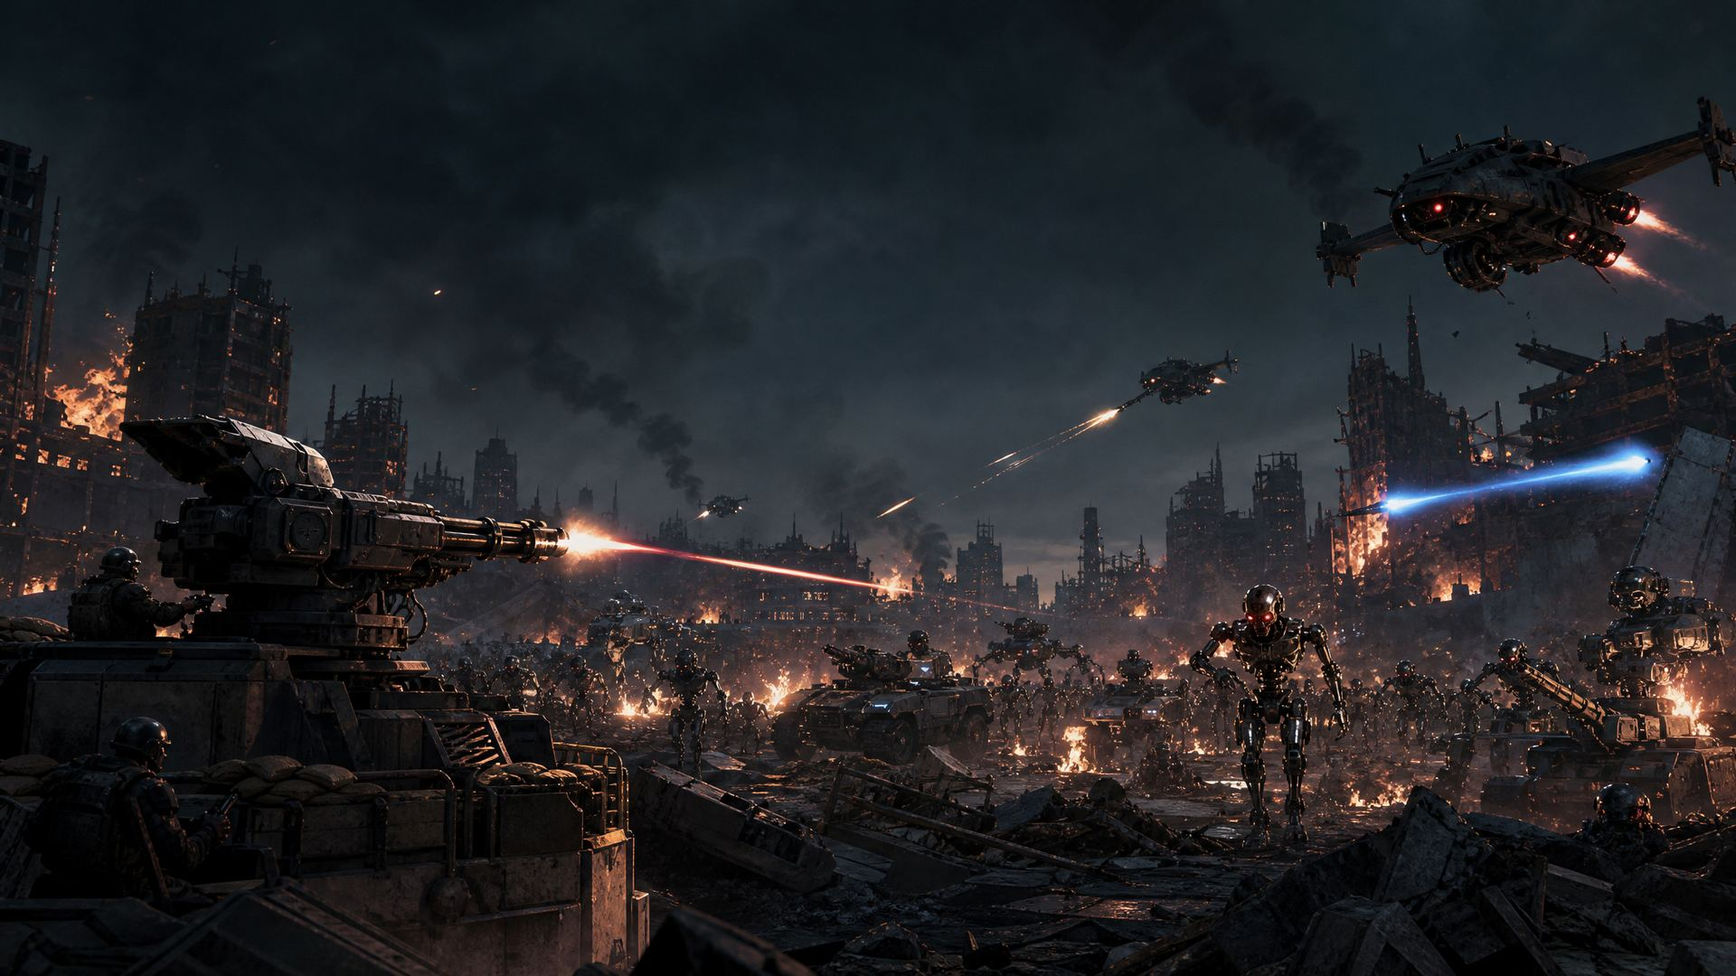
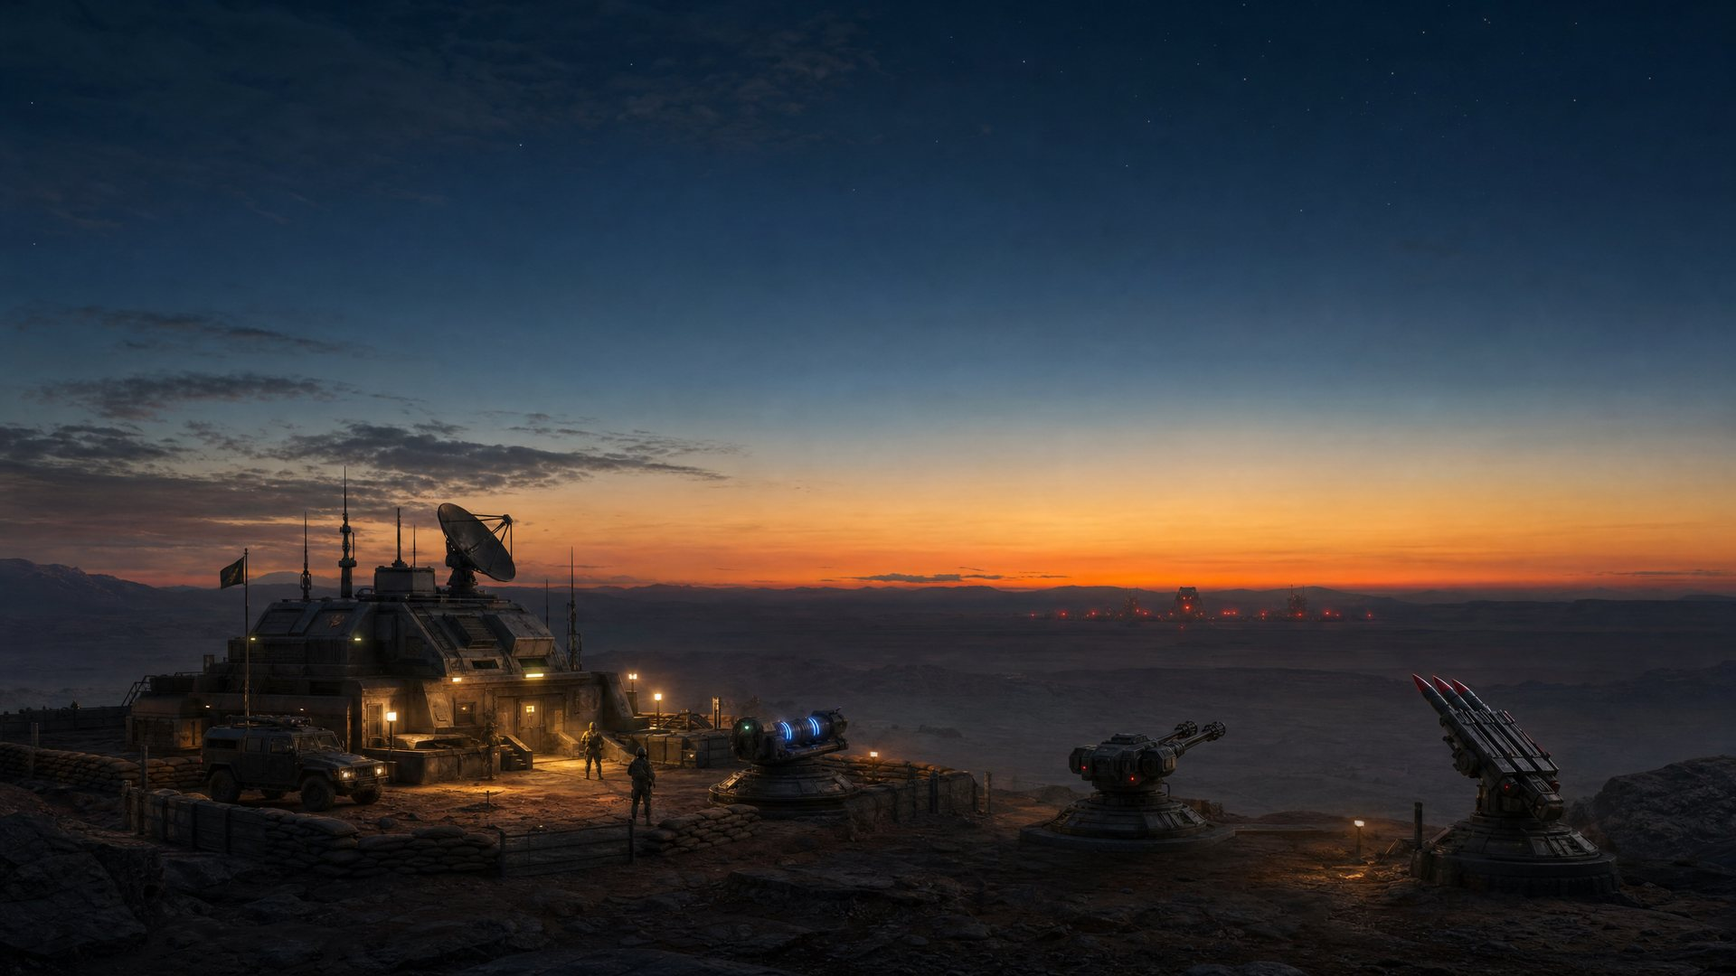
Calm new main menu background; apps resumed from background find updates
- New title art: the headquarters with its turrets at dusk under a wide,
  quiet evening sky (the old busy burning-city image is gone); lighter
  overlay so the sky stays calm behind the buttons.
- The service worker update check now also runs when the app comes back
  to the foreground and every 15 minutes - a home-screen app on iPhone /
  iPad that is only resumed never reloaded and kept an old version. During
  a mission a toast says the new version starts on the next menu visit.

Claude-Session: https://claude.ai/code/session_01Qj1Y3LYrDV6JTdCHBwHGnj

diff --git a/sw.js b/sw.js
@@ -1,7 +1,7 @@
 // Iron Sentinel service worker: keeps the game on the device, so it starts fast and plays offline.
 // VERSION / FILES (path -> content hash) are written by tools/gen_sw.mjs on every deploy. A new version
 // downloads only the files whose hash changed and copies everything else over from the previous cache.
-const VERSION = '7cf5644b91', FILES = {"index.html":"cba2eae220","manifest.webmanifest":"dbbdfe9082","css/style.css":"8616410d91","js/assets.js":"ef3bc26484","js/audio.js":"175dff33cd","js/challenges.js":"1aa7f4d386","js/config.js":"0130ceb75e","js/fx.js":"08d45fc1a1","js/game.js":"4dc733d8d0","js/input.js":"73db21e087","js/iso.js":"6761ac1af1","js/level_specs.js":"9b5298ebbe","js/levels.js":"4fea68e56b","js/levels_data.js":"69fa1b2d6e","js/life.js":"7508f21a8a","js/main.js":"05881b84b1","js/render.js":"4b62581698","assets/audio/sfx.json":"2c0eb03b5a","assets/audio/sfx.mp3":"e4f91642b5","assets/fonts/orbitron.woff2":"b522c4d914","assets/fonts/rajdhani-500.woff2":"c6dd2c160a","assets/fonts/rajdhani-600.woff2":"525a3afc6a","assets/fonts/rajdhani-700.woff2":"518e92dca2","assets/icon-180.png":"80eb5c9fc5","assets/icon-192.png":"15f734707c","assets/icon-512.png":"0fe1f208f2","assets/models/ally_bomber.webp":"2d3ed0364c","assets/models/ally_jeep.webp":"f84a1074be","assets/models/ally_soldier.webp":"0f2ed3e2a7","assets/models/enemy_aegis.webp":"a66ff2cc5e","assets/models/enemy_android.webp":"f14f54a892","assets/models/enemy_archangel.webp":"a11f28307b","assets/models/enemy_bomber.webp":"93c5a15580","assets/models/enemy_boss.webp":"defc7b1714","assets/models/enemy_brood.webp":"0713441c96","assets/models/enemy_burrower.webp":"6ac73394db","assets/models/enemy_climber.webp":"3c163e3fae","assets/models/enemy_demon.webp":"2cbd15a7e2","assets/models/enemy_drone.webp":"7740a7e49f","assets/models/enemy_fallen.webp":"f54f166886","assets/models/enemy_gargoyle.webp":"32d42b1da9","assets/models/enemy_ghoulhound.webp":"4403da739f","assets/models/enemy_hellhound.webp":"01daa30687","assets/models/enemy_icebreaker.webp":"7eff1fe343","assets/models/enemy_imp.webp":"d6ac2a1532","assets/models/enemy_infiltrator.webp":"5f88d632c7","assets/models/enemy_kamikaze.webp":"ee5ccbfcba","assets/models/enemy_lich.webp":"82729b67d9","assets/models/enemy_magma.webp":"d9ca5dfe49","assets/models/enemy_mech.webp":"1fc5b14982","assets/models/enemy_mothership.webp":"71f85531bd","assets/models/enemy_necromancer.webp":"504ec8d045","assets/models/enemy_ram.webp":"4580c225d9","assets/models/enemy_repair.webp":"5782bfadc2","assets/models/enemy_saboteur.webp":"99e8161e75","assets/models/enemy_scavenger.webp":"61e2aff168","assets/models/enemy_shield.webp":"8b73a2d0fc","assets/models/enemy_siege.webp":"7562530a61","assets/models/enemy_skeleton.webp":"8f5af4e932","assets/models/enemy_spider.webp":"18e5e3169c","assets/models/enemy_tank.webp":"8748128559","assets/models/enemy_wraith.webp":"b611627b95","assets/models/enemy_zombie.webp":"3d894d83d7","assets/models/models.json":"e9a74c273c","assets/models/p3d_base_hq.webp":"a85c7fe877","assets/models/p3d_base_hq_shadow.webp":"134529705c","assets/models/p3d_hq_city.webp":"d7e6683ef1","assets/models/p3d_hq_city_shadow.webp":"4b529bf549","assets/models/p3d_hq_desert.webp":"dd0bd0a20c","assets/models/p3d_hq_desert_shadow.webp":"6ab8456fd3","assets/models/p3d_hq_ice.webp":"541ccbf1e3","assets/models/p3d_hq_ice_shadow.webp":"077b19bb4e","assets/models/p3d_hq_inferno.webp":"3114492076","assets/models/p3d_hq_inferno_shadow.webp":"6159ef41bd","assets/models/p3d_hq_jungle.webp":"8e6c5ad878","assets/models/p3d_hq_jungle_shadow.webp":"8d6529397f","assets/models/p3d_hq_necro.webp":"19b95ad54f","assets/models/p3d_hq_necro_shadow.webp":"0c61f4eeb6","assets/models/p3d_hq_volcano.webp":"9f05d6a1b6","assets/models/p3d_hq_volcano_shadow.webp":"2da4790950","assets/models/p3d_hq_wasteland.webp":"92cecb1ec8","assets/models/p3d_hq_wasteland_shadow.webp":"d7dccbbbb3","assets/models/p3d_portal.webp":"9de328df28","assets/models/p3d_portal_shadow.webp":"229bee6b0e","assets/models/p3d_prop_barrier.webp":"d63c0a89fe","assets/models/p3d_prop_barrier_shadow.webp":"31045249ec","assets/models/p3d_prop_c_bus.webp":"7d637c8bda","assets/models/p3d_prop_c_bus_shadow.webp":"2b179a3996","assets/models/p3d_prop_c_car.webp":"d2c8db811b","assets/models/p3d_prop_c_car_shadow.webp":"33ab4f6245","assets/models/p3d_prop_c_rubble.webp":"7577a1d03f","assets/models/p3d_prop_c_rubble_shadow.webp":"350bf87ffe","assets/models/p3d_prop_c_tower.webp":"7cdd121036","assets/models/p3d_prop_c_tower_shadow.webp":"dce03248e1","assets/models/p3d_prop_c_uplink.webp":"d311ea12ff","assets/models/p3d_prop_c_uplink_shadow.webp":"145d79098a","assets/models/p3d_prop_crates.webp":"9c78a898aa","assets/models/p3d_prop_crates_shadow.webp":"121fb566ff","assets/models/p3d_prop_d_pump.webp":"e2c3665b18","assets/models/p3d_prop_d_pump_shadow.webp":"ca4f9b65ff","assets/models/p3d_prop_d_rock.webp":"b5d2692dd0","assets/models/p3d_prop_d_rock_shadow.webp":"48020bdacd","assets/models/p3d_prop_d_tank.webp":"67b787c8e7","assets/models/p3d_prop_d_tank_shadow.webp":"8a3a4544bb","assets/models/p3d_prop_h_column.webp":"ef6b9b700b","assets/models/p3d_prop_h_column_shadow.webp":"111a88e69e","assets/models/p3d_prop_h_crystal.webp":"43f09ebda1","assets/models/p3d_prop_h_crystal_shadow.webp":"3aeab7bfab","assets/models/p3d_prop_h_gate.webp":"825a18a0f1","assets/models/p3d_prop_h_gate_shadow.webp":"95518bcd68","assets/models/p3d_prop_h_spire.webp":"c184de64ee","assets/models/p3d_prop_h_spire_shadow.webp":"cec2663065","assets/models/p3d_prop_h_statue.webp":"8eb17de7bf","assets/models/p3d_prop_h_statue_shadow.webp":"b684332c56","assets/models/p3d_prop_i_ice.webp":"687479b16a","assets/models/p3d_prop_i_ice_shadow.webp":"d1bf4472fa","assets/models/p3d_prop_i_pine.webp":"2c1ad394cd","assets/models/p3d_prop_i_pine_shadow.webp":"d1b375b75b","assets/models/p3d_prop_i_station.webp":"6c54c51337","assets/models/p3d_prop_i_station_shadow.webp":"deb2bf82ae","assets/models/p3d_prop_i_wreck.webp":"4999999826","assets/models/p3d_prop_i_wreck_shadow.webp":"b39cfbcfc8","assets/models/p3d_prop_j_bush.webp":"8424c76720","assets/models/p3d_prop_j_bush_shadow.webp":"25ea3a59c6","assets/models/p3d_prop_j_heli.webp":"276ca0f97c","assets/models/p3d_prop_j_heli_shadow.webp":"27a708c242","assets/models/p3d_prop_j_temple.webp":"718c7e3ed3","assets/models/p3d_prop_j_temple_shadow.webp":"4a21f9348a","assets/models/p3d_prop_j_tree.webp":"c955e41963","assets/models/p3d_prop_j_tree_shadow.webp":"44dbaba4cf","assets/models/p3d_prop_n_bones.webp":"15f2f47a0b","assets/models/p3d_prop_n_bones_shadow.webp":"c65f1f3018","assets/models/p3d_prop_n_crypt.webp":"668172a69c","assets/models/p3d_prop_n_crypt_shadow.webp":"d30764c62d","assets/models/p3d_prop_n_graves.webp":"0c53852758","assets/models/p3d_prop_n_graves_shadow.webp":"6d13c03d6e","assets/models/p3d_prop_n_obelisk.webp":"ce98a14a7c","assets/models/p3d_prop_n_obelisk_shadow.webp":"f44d6368c6","assets/models/p3d_prop_n_tree.webp":"0dc38097b9","assets/models/p3d_prop_n_tree_shadow.webp":"a9ed1d290a","assets/models/p3d_prop_ruin.webp":"4adfedb919","assets/models/p3d_prop_ruin_shadow.webp":"e9f3bd361a","assets/models/p3d_prop_scrap.webp":"69220622a9","assets/models/p3d_prop_scrap_shadow.webp":"a024ce1405","assets/models/p3d_prop_tree.webp":"2111d42018","assets/models/p3d_prop_tree_shadow.webp":"7b9811970d","assets/models/p3d_prop_v_factory.webp":"9fa3ff7a09","assets/models/p3d_prop_v_factory_shadow.webp":"b0e208b465","assets/models/p3d_prop_v_rocks.webp":"48bd136a54","assets/models/p3d_prop_v_rocks_shadow.webp":"12228b910d","assets/models/p3d_prop_v_spire.webp":"5d12c717bd","assets/models/p3d_prop_v_spire_shadow.webp":"62f5af1e3e","assets/models/p3d_prop_wreck.webp":"0acb53cc37","assets/models/p3d_prop_wreck_shadow.webp":"f07d85a968","assets/models/p3d_spawn_gate.webp":"77396f9d70","assets/models/p3d_spawn_gate_shadow.webp":"7ea6062326","assets/models/tower_acid.webp":"4ea58a6346","assets/models/tower_acid_base.webp":"0af457ec2c","assets/models/tower_acid_shadow.webp":"94c7db3e93","assets/models/tower_cryo.webp":"aa3d217680","assets/models/tower_cryo_base.webp":"0616e5622c","assets/models/tower_cryo_shadow.webp":"5e5009032c","assets/models/tower_emp.webp":"78288c90f4","assets/models/tower_emp_shadow.webp":"dbb361af7d","assets/models/tower_flak.webp":"34963c5bfb","assets/models/tower_flak_base.webp":"1312c505d3","assets/models/tower_flak_shadow.webp":"32678ceb9f","assets/models/tower_flame.webp":"bf80a218ee","assets/models/tower_flame_base.webp":"8c79616b22","assets/models/tower_flame_shadow.webp":"cb77032c23","assets/models/tower_gatling.webp":"4028c159f3","assets/models/tower_gatling_base.webp":"d855acc82c","assets/models/tower_gatling_shadow.webp":"a727bb8b14","assets/models/tower_laser.webp":"d447cbb891","assets/models/tower_laser_base.webp":"02b39ef38d","assets/models/tower_laser_shadow.webp":"4be1658d9d","assets/models/tower_missile.webp":"c26a607cca","assets/models/tower_missile_base.webp":"5eacc2ee63","assets/models/tower_missile_shadow.webp":"65ea5db98d","assets/models/tower_mortar.webp":"c0b95966a5","assets/models/tower_mortar_base.webp":"f10398661e","assets/models/tower_mortar_shadow.webp":"4aae9a6a2c","assets/models/tower_plasma.webp":"bc8d9d45f1","assets/models/tower_plasma_base.webp":"a5a2eba848","assets/models/tower_plasma_shadow.webp":"61a339d985","assets/models/tower_rail.webp":"0b35ebd26d","assets/models/tower_rail_base.webp":"2b674a1697","assets/models/tower_rail_shadow.webp":"be84f36ea6","assets/music/battle.mp3":"2f2e63d8dd","assets/music/battle2.mp3":"ea89ba1635","assets/music/boss.mp3":"dfc06a8fc3","assets/music/build.mp3":"618ffef749","assets/music/music.json":"52d718f8ab","assets/tex/city_ground.jpg":"f898a968ea","assets/tex/city_road.jpg":"8fda23eede","assets/tex/desert_ground.jpg":"9e1e409aed","assets/tex/desert_road.jpg":"7d0c8867eb","assets/tex/ground.jpg":"b8cfcdaf8e","assets/tex/ice_ground.jpg":"1aa05345a9","assets/tex/ice_road.jpg":"f7ca79ae47","assets/tex/inferno_ground.jpg":"a342c57fe1","assets/tex/inferno_road.jpg":"13e16642f6","assets/tex/jungle_ground.jpg":"8df6192dc2","assets/tex/jungle_road.jpg":"fff38183b2","assets/tex/necro_ground.jpg":"cf76348625","assets/tex/necro_road.jpg":"bdbd94a69b","assets/tex/road.jpg":"c53eaac7a4","assets/tex/volcano_ground.jpg":"8e77007966","assets/tex/volcano_road.jpg":"ea3db1b982","assets/title.jpg":"7b7fcc7ae5","assets/ui/icons.json":"61114fb4a0","assets/ui/icons.webp":"b561deb723","assets/vfx/explosion.webp":"80d3a28276","assets/vfx/explosion_ground.webp":"8568f761df","assets/vfx/explosion_heavy.webp":"fcd15cc033","assets/vfx/explosion_nuke.webp":"87d0b42865","assets/vfx/explosion_plasma.webp":"4a1baf97ba","assets/vfx/vfx_blackhole.json":"00876bee78","assets/vfx/vfx_blackhole.webp":"51da187734"};
+const VERSION = '912c102da8', FILES = {"index.html":"cba2eae220","manifest.webmanifest":"dbbdfe9082","css/style.css":"82f2568af6","js/assets.js":"ef3bc26484","js/audio.js":"175dff33cd","js/challenges.js":"1aa7f4d386","js/config.js":"0130ceb75e","js/fx.js":"08d45fc1a1","js/game.js":"4dc733d8d0","js/input.js":"73db21e087","js/iso.js":"6761ac1af1","js/level_specs.js":"9b5298ebbe","js/levels.js":"4fea68e56b","js/levels_data.js":"69fa1b2d6e","js/life.js":"7508f21a8a","js/main.js":"86ec66240d","js/render.js":"4b62581698","assets/audio/sfx.json":"2c0eb03b5a","assets/audio/sfx.mp3":"e4f91642b5","assets/fonts/orbitron.woff2":"b522c4d914","assets/fonts/rajdhani-500.woff2":"c6dd2c160a","assets/fonts/rajdhani-600.woff2":"525a3afc6a","assets/fonts/rajdhani-700.woff2":"518e92dca2","assets/icon-180.png":"80eb5c9fc5","assets/icon-192.png":"15f734707c","assets/icon-512.png":"0fe1f208f2","assets/models/ally_bomber.webp":"2d3ed0364c","assets/models/ally_jeep.webp":"f84a1074be","assets/models/ally_soldier.webp":"0f2ed3e2a7","assets/models/enemy_aegis.webp":"a66ff2cc5e","assets/models/enemy_android.webp":"f14f54a892","assets/models/enemy_archangel.webp":"a11f28307b","assets/models/enemy_bomber.webp":"93c5a15580","assets/models/enemy_boss.webp":"defc7b1714","assets/models/enemy_brood.webp":"0713441c96","assets/models/enemy_burrower.webp":"6ac73394db","assets/models/enemy_climber.webp":"3c163e3fae","assets/models/enemy_demon.webp":"2cbd15a7e2","assets/models/enemy_drone.webp":"7740a7e49f","assets/models/enemy_fallen.webp":"f54f166886","assets/models/enemy_gargoyle.webp":"32d42b1da9","assets/models/enemy_ghoulhound.webp":"4403da739f","assets/models/enemy_hellhound.webp":"01daa30687","assets/models/enemy_icebreaker.webp":"7eff1fe343","assets/models/enemy_imp.webp":"d6ac2a1532","assets/models/enemy_infiltrator.webp":"5f88d632c7","assets/models/enemy_kamikaze.webp":"ee5ccbfcba","assets/models/enemy_lich.webp":"82729b67d9","assets/models/enemy_magma.webp":"d9ca5dfe49","assets/models/enemy_mech.webp":"1fc5b14982","assets/models/enemy_mothership.webp":"71f85531bd","assets/models/enemy_necromancer.webp":"504ec8d045","assets/models/enemy_ram.webp":"4580c225d9","assets/models/enemy_repair.webp":"5782bfadc2","assets/models/enemy_saboteur.webp":"99e8161e75","assets/models/enemy_scavenger.webp":"61e2aff168","assets/models/enemy_shield.webp":"8b73a2d0fc","assets/models/enemy_siege.webp":"7562530a61","assets/models/enemy_skeleton.webp":"8f5af4e932","assets/models/enemy_spider.webp":"18e5e3169c","assets/models/enemy_tank.webp":"8748128559","assets/models/enemy_wraith.webp":"b611627b95","assets/models/enemy_zombie.webp":"3d894d83d7","assets/models/models.json":"e9a74c273c","assets/models/p3d_base_hq.webp":"a85c7fe877","assets/models/p3d_base_hq_shadow.webp":"134529705c","assets/models/p3d_hq_city.webp":"d7e6683ef1","assets/models/p3d_hq_city_shadow.webp":"4b529bf549","assets/models/p3d_hq_desert.webp":"dd0bd0a20c","assets/models/p3d_hq_desert_shadow.webp":"6ab8456fd3","assets/models/p3d_hq_ice.webp":"541ccbf1e3","assets/models/p3d_hq_ice_shadow.webp":"077b19bb4e","assets/models/p3d_hq_inferno.webp":"3114492076","assets/models/p3d_hq_inferno_shadow.webp":"6159ef41bd","assets/models/p3d_hq_jungle.webp":"8e6c5ad878","assets/models/p3d_hq_jungle_shadow.webp":"8d6529397f","assets/models/p3d_hq_necro.webp":"19b95ad54f","assets/models/p3d_hq_necro_shadow.webp":"0c61f4eeb6","assets/models/p3d_hq_volcano.webp":"9f05d6a1b6","assets/models/p3d_hq_volcano_shadow.webp":"2da4790950","assets/models/p3d_hq_wasteland.webp":"92cecb1ec8","assets/models/p3d_hq_wasteland_shadow.webp":"d7dccbbbb3","assets/models/p3d_portal.webp":"9de328df28","assets/models/p3d_portal_shadow.webp":"229bee6b0e","assets/models/p3d_prop_barrier.webp":"d63c0a89fe","assets/models/p3d_prop_barrier_shadow.webp":"31045249ec","assets/models/p3d_prop_c_bus.webp":"7d637c8bda","assets/models/p3d_prop_c_bus_shadow.webp":"2b179a3996","assets/models/p3d_prop_c_car.webp":"d2c8db811b","assets/models/p3d_prop_c_car_shadow.webp":"33ab4f6245","assets/models/p3d_prop_c_rubble.webp":"7577a1d03f","assets/models/p3d_prop_c_rubble_shadow.webp":"350bf87ffe","assets/models/p3d_prop_c_tower.webp":"7cdd121036","assets/models/p3d_prop_c_tower_shadow.webp":"dce03248e1","assets/models/p3d_prop_c_uplink.webp":"d311ea12ff","assets/models/p3d_prop_c_uplink_shadow.webp":"145d79098a","assets/models/p3d_prop_crates.webp":"9c78a898aa","assets/models/p3d_prop_crates_shadow.webp":"121fb566ff","assets/models/p3d_prop_d_pump.webp":"e2c3665b18","assets/models/p3d_prop_d_pump_shadow.webp":"ca4f9b65ff","assets/models/p3d_prop_d_rock.webp":"b5d2692dd0","assets/models/p3d_prop_d_rock_shadow.webp":"48020bdacd","assets/models/p3d_prop_d_tank.webp":"67b787c8e7","assets/models/p3d_prop_d_tank_shadow.webp":"8a3a4544bb","assets/models/p3d_prop_h_column.webp":"ef6b9b700b","assets/models/p3d_prop_h_column_shadow.webp":"111a88e69e","assets/models/p3d_prop_h_crystal.webp":"43f09ebda1","assets/models/p3d_prop_h_crystal_shadow.webp":"3aeab7bfab","assets/models/p3d_prop_h_gate.webp":"825a18a0f1","assets/models/p3d_prop_h_gate_shadow.webp":"95518bcd68","assets/models/p3d_prop_h_spire.webp":"c184de64ee","assets/models/p3d_prop_h_spire_shadow.webp":"cec2663065","assets/models/p3d_prop_h_statue.webp":"8eb17de7bf","assets/models/p3d_prop_h_statue_shadow.webp":"b684332c56","assets/models/p3d_prop_i_ice.webp":"687479b16a","assets/models/p3d_prop_i_ice_shadow.webp":"d1bf4472fa","assets/models/p3d_prop_i_pine.webp":"2c1ad394cd","assets/models/p3d_prop_i_pine_shadow.webp":"d1b375b75b","assets/models/p3d_prop_i_station.webp":"6c54c51337","assets/models/p3d_prop_i_station_shadow.webp":"deb2bf82ae","assets/models/p3d_prop_i_wreck.webp":"4999999826","assets/models/p3d_prop_i_wreck_shadow.webp":"b39cfbcfc8","assets/models/p3d_prop_j_bush.webp":"8424c76720","assets/models/p3d_prop_j_bush_shadow.webp":"25ea3a59c6","assets/models/p3d_prop_j_heli.webp":"276ca0f97c","assets/models/p3d_prop_j_heli_shadow.webp":"27a708c242","assets/models/p3d_prop_j_temple.webp":"718c7e3ed3","assets/models/p3d_prop_j_temple_shadow.webp":"4a21f9348a","assets/models/p3d_prop_j_tree.webp":"c955e41963","assets/models/p3d_prop_j_tree_shadow.webp":"44dbaba4cf","assets/models/p3d_prop_n_bones.webp":"15f2f47a0b","assets/models/p3d_prop_n_bones_shadow.webp":"c65f1f3018","assets/models/p3d_prop_n_crypt.webp":"668172a69c","assets/models/p3d_prop_n_crypt_shadow.webp":"d30764c62d","assets/models/p3d_prop_n_graves.webp":"0c53852758","assets/models/p3d_prop_n_graves_shadow.webp":"6d13c03d6e","assets/models/p3d_prop_n_obelisk.webp":"ce98a14a7c","assets/models/p3d_prop_n_obelisk_shadow.webp":"f44d6368c6","assets/models/p3d_prop_n_tree.webp":"0dc38097b9","assets/models/p3d_prop_n_tree_shadow.webp":"a9ed1d290a","assets/models/p3d_prop_ruin.webp":"4adfedb919","assets/models/p3d_prop_ruin_shadow.webp":"e9f3bd361a","assets/models/p3d_prop_scrap.webp":"69220622a9","assets/models/p3d_prop_scrap_shadow.webp":"a024ce1405","assets/models/p3d_prop_tree.webp":"2111d42018","assets/models/p3d_prop_tree_shadow.webp":"7b9811970d","assets/models/p3d_prop_v_factory.webp":"9fa3ff7a09","assets/models/p3d_prop_v_factory_shadow.webp":"b0e208b465","assets/models/p3d_prop_v_rocks.webp":"48bd136a54","assets/models/p3d_prop_v_rocks_shadow.webp":"12228b910d","assets/models/p3d_prop_v_spire.webp":"5d12c717bd","assets/models/p3d_prop_v_spire_shadow.webp":"62f5af1e3e","assets/models/p3d_prop_wreck.webp":"0acb53cc37","assets/models/p3d_prop_wreck_shadow.webp":"f07d85a968","assets/models/p3d_spawn_gate.webp":"77396f9d70","assets/models/p3d_spawn_gate_shadow.webp":"7ea6062326","assets/models/tower_acid.webp":"4ea58a6346","assets/models/tower_acid_base.webp":"0af457ec2c","assets/models/tower_acid_shadow.webp":"94c7db3e93","assets/models/tower_cryo.webp":"aa3d217680","assets/models/tower_cryo_base.webp":"0616e5622c","assets/models/tower_cryo_shadow.webp":"5e5009032c","assets/models/tower_emp.webp":"78288c90f4","assets/models/tower_emp_shadow.webp":"dbb361af7d","assets/models/tower_flak.webp":"34963c5bfb","assets/models/tower_flak_base.webp":"1312c505d3","assets/models/tower_flak_shadow.webp":"32678ceb9f","assets/models/tower_flame.webp":"bf80a218ee","assets/models/tower_flame_base.webp":"8c79616b22","assets/models/tower_flame_shadow.webp":"cb77032c23","assets/models/tower_gatling.webp":"4028c159f3","assets/models/tower_gatling_base.webp":"d855acc82c","assets/models/tower_gatling_shadow.webp":"a727bb8b14","assets/models/tower_laser.webp":"d447cbb891","assets/models/tower_laser_base.webp":"02b39ef38d","assets/models/tower_laser_shadow.webp":"4be1658d9d","assets/models/tower_missile.webp":"c26a607cca","assets/models/tower_missile_base.webp":"5eacc2ee63","assets/models/tower_missile_shadow.webp":"65ea5db98d","assets/models/tower_mortar.webp":"c0b95966a5","assets/models/tower_mortar_base.webp":"f10398661e","assets/models/tower_mortar_shadow.webp":"4aae9a6a2c","assets/models/tower_plasma.webp":"bc8d9d45f1","assets/models/tower_plasma_base.webp":"a5a2eba848","assets/models/tower_plasma_shadow.webp":"61a339d985","assets/models/tower_rail.webp":"0b35ebd26d","assets/models/tower_rail_base.webp":"2b674a1697","assets/models/tower_rail_shadow.webp":"be84f36ea6","assets/music/battle.mp3":"2f2e63d8dd","assets/music/battle2.mp3":"ea89ba1635","assets/music/boss.mp3":"dfc06a8fc3","assets/music/build.mp3":"618ffef749","assets/music/music.json":"52d718f8ab","assets/tex/city_ground.jpg":"f898a968ea","assets/tex/city_road.jpg":"8fda23eede","assets/tex/desert_ground.jpg":"9e1e409aed","assets/tex/desert_road.jpg":"7d0c8867eb","assets/tex/ground.jpg":"b8cfcdaf8e","assets/tex/ice_ground.jpg":"1aa05345a9","assets/tex/ice_road.jpg":"f7ca79ae47","assets/tex/inferno_ground.jpg":"a342c57fe1","assets/tex/inferno_road.jpg":"13e16642f6","assets/tex/jungle_ground.jpg":"8df6192dc2","assets/tex/jungle_road.jpg":"fff38183b2","assets/tex/necro_ground.jpg":"cf76348625","assets/tex/necro_road.jpg":"bdbd94a69b","assets/tex/road.jpg":"c53eaac7a4","assets/tex/volcano_ground.jpg":"8e77007966","assets/tex/volcano_road.jpg":"ea3db1b982","assets/title.jpg":"8aed48884d","assets/ui/icons.json":"61114fb4a0","assets/ui/icons.webp":"b561deb723","assets/vfx/explosion.webp":"80d3a28276","assets/vfx/explosion_ground.webp":"8568f761df","assets/vfx/explosion_heavy.webp":"fcd15cc033","assets/vfx/explosion_nuke.webp":"87d0b42865","assets/vfx/explosion_plasma.webp":"4a1baf97ba","assets/vfx/vfx_blackhole.json":"00876bee78","assets/vfx/vfx_blackhole.webp":"51da187734"};
 
 const PREFIX = 'iron-sentinel-';
 const CACHE = PREFIX + VERSION;

diff --git a/js/main.js b/js/main.js
@@ -1715,8 +1715,16 @@ function initOffline() {
     if (!had) { swSend('fill'); swSend('status'); return; }     // first install: start the background download
     swUpdate = true;
     if (onMenuScreen()) applySwUpdate();
+    else if (game) toast('Neue Version geladen – sie startet, sobald du ins Menü wechselst', 'warn', 4500);
   });
-  navigator.serviceWorker.register('sw.js').catch((e) => console.warn('service worker', e));
+  let reg = null, lastCheck = 0;
+  // the browser only looks for a new sw.js on a page load - an app resumed from the background (home screen
+  // app on iPhone / iPad) would keep running the old version: check when it comes back and every 15 minutes
+  const check = () => { if (reg && navigator.onLine !== false && Date.now() - lastCheck > 60000) { lastCheck = Date.now(); reg.update().catch(() => {}); } };
+  navigator.serviceWorker.register('sw.js').then((r) => { reg = r; }).catch((e) => console.warn('service worker', e));
+  document.addEventListener('visibilitychange', () => { if (document.visibilityState === 'visible') check(); });
+  window.addEventListener('focus', check);
+  setInterval(() => { if (document.visibilityState === 'visible') check(); }, 15 * 60 * 1000);
   try { if (navigator.storage && navigator.storage.persist) navigator.storage.persist().catch(() => {}); } catch (e) { /* ignore */ }
   if (had) { swSend('status'); setTimeout(() => swSend('fill'), 3000); }
 }

diff --git a/css/style.css b/css/style.css
@@ -174,11 +174,11 @@ button {
   touch-action: pan-y;
 }
 .title-bg {
-  background: #000 url('../assets/title.jpg') center / cover no-repeat;
+  background: #05070c url('../assets/title.jpg') center 88% / cover no-repeat;
 }
 .title-bg::before {
   content: ''; position: absolute; inset: 0;
-  background: linear-gradient(180deg, rgba(0,0,0,0.55) 0%, rgba(0,0,0,0.15) 40%, rgba(0,0,0,0.75) 100%);
+  background: linear-gradient(180deg, rgba(0,0,0,0.3) 0%, rgba(0,0,0,0.06) 45%, rgba(0,0,0,0.25) 100%);
   pointer-events: none;
 }
 .title-bg.dim::before { background: rgba(5,6,8,0.78); }
